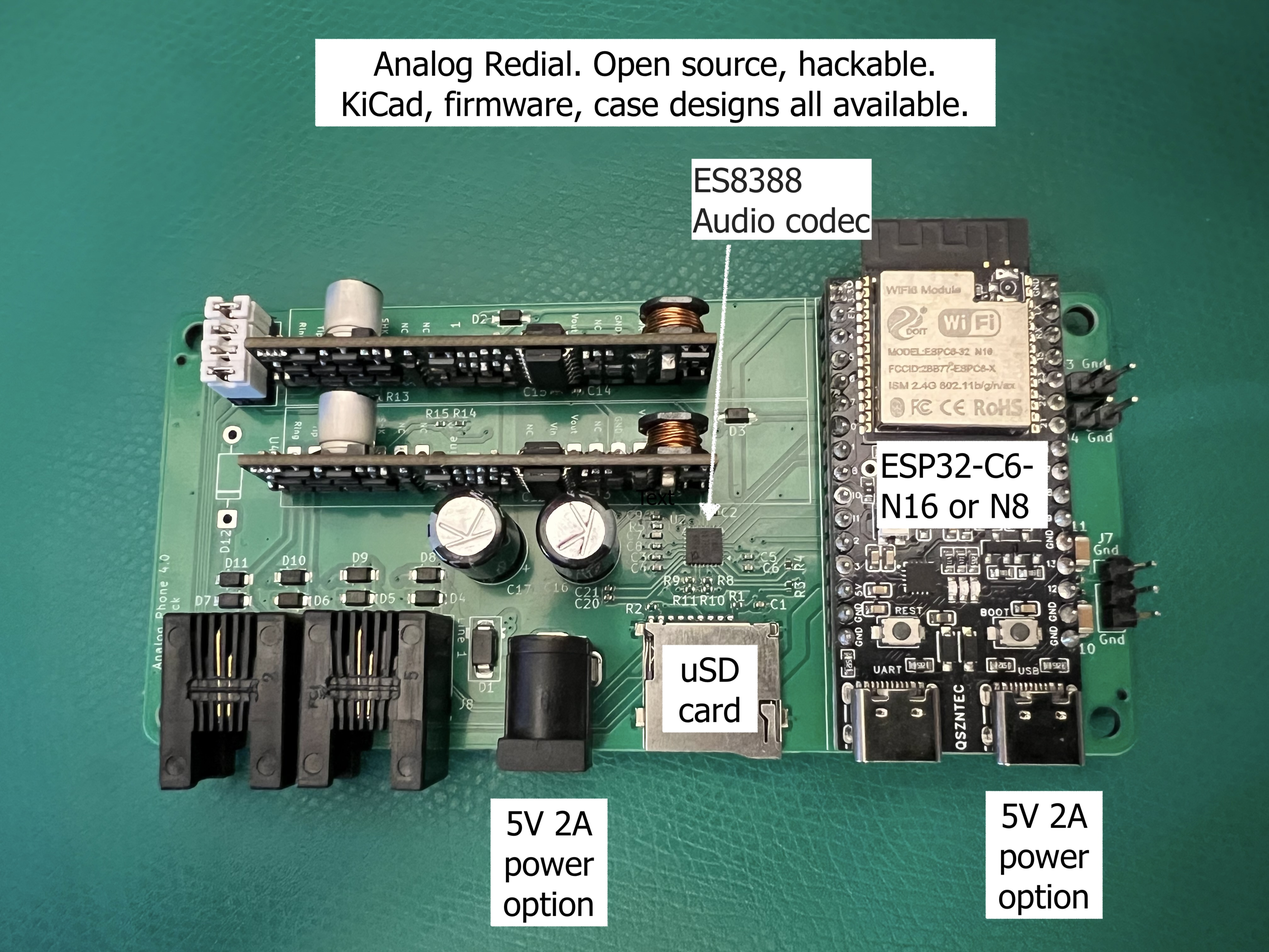
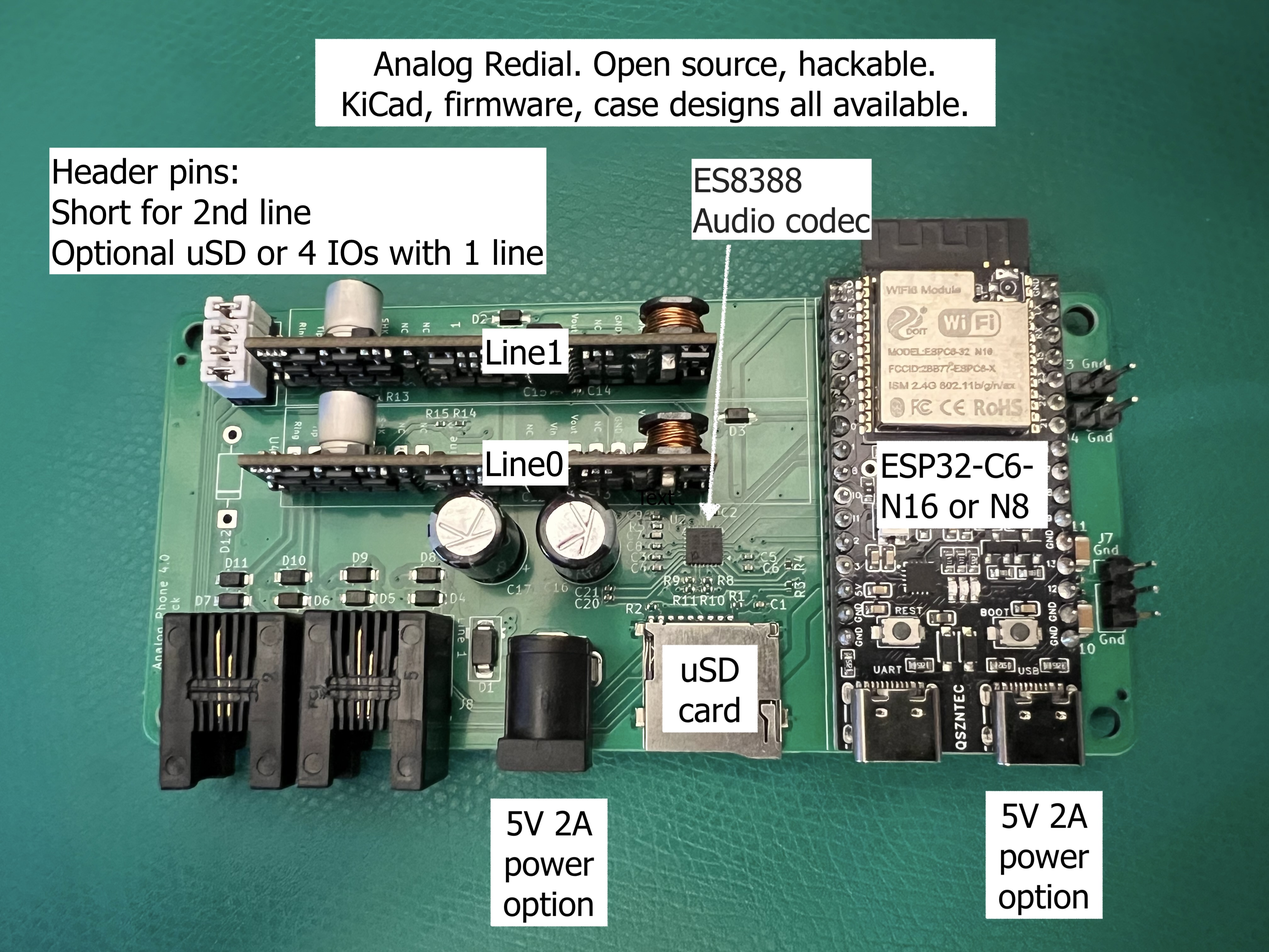
Hardware docs: don't connect the RJ12 jacks to a telco line

Changed region(s): [[0.0312, 0.1554, 0.4375, 0.3108], [0.375, 0.4352, 0.4688, 0.5284], [0.375, 0.3419, 0.4688, 0.4041]]

diff --git a/docs/hardware-smd4.md b/docs/hardware-smd4.md
@@ -140,6 +140,12 @@ ground island.
 
 ## 6. AG1171 SLIC & RJ12 wiring
 
+> **Never connect the RJ12 jacks to a wall jack or a telephone-company line.**
+> Each one is a telephone-company side (FXS) interface, not a line input: it
+> supplies about 48 V DC off-hook and about 72 V when ringing, which can injure
+> someone and damage the telephone network. The board is only for connecting to
+> phones directly.
+
 Each SLIC (**U4** = line 0, **U3** = line 1) interfaces one RJ12 jack (**J9**
 line 0, **J8** line 1) with the following support network. This is the
 current, corrected wiring — earlier hand-soldered revisions had a SLIC

diff --git a/docs/hardware-smd5.md b/docs/hardware-smd5.md
@@ -153,6 +153,12 @@ ground island.
 
 ## 6. AG1171 SLIC & RJ12 wiring
 
+> **Never connect the RJ12 jacks to a wall jack or a telephone-company line.**
+> Each one is a telephone-company side (FXS) interface, not a line input: it
+> supplies about 48 V DC off-hook and about 72 V when ringing, which can injure
+> someone and damage the telephone network. The board is only for connecting to
+> phones directly.
+
 Each SLIC (**U4** = line 0, **U3** = line 1) interfaces one RJ12 jack (**J9**
 line 0, **J8** line 1) with the following support network.
 
